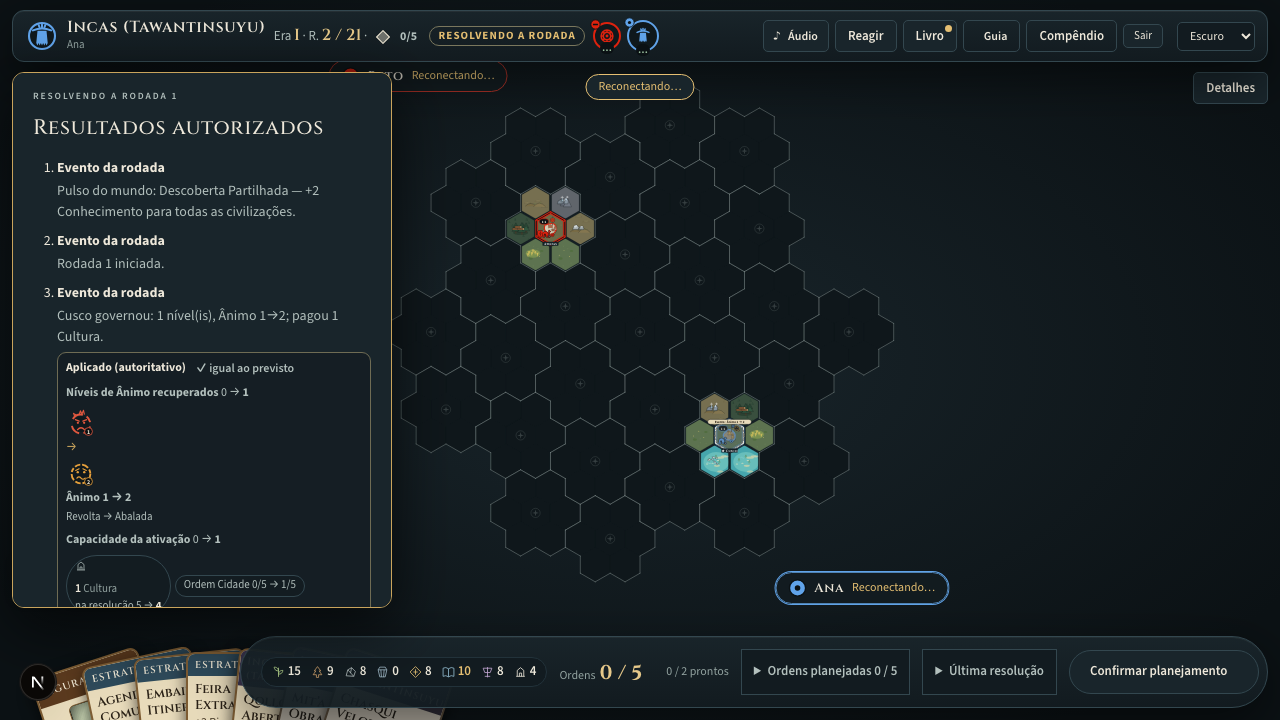
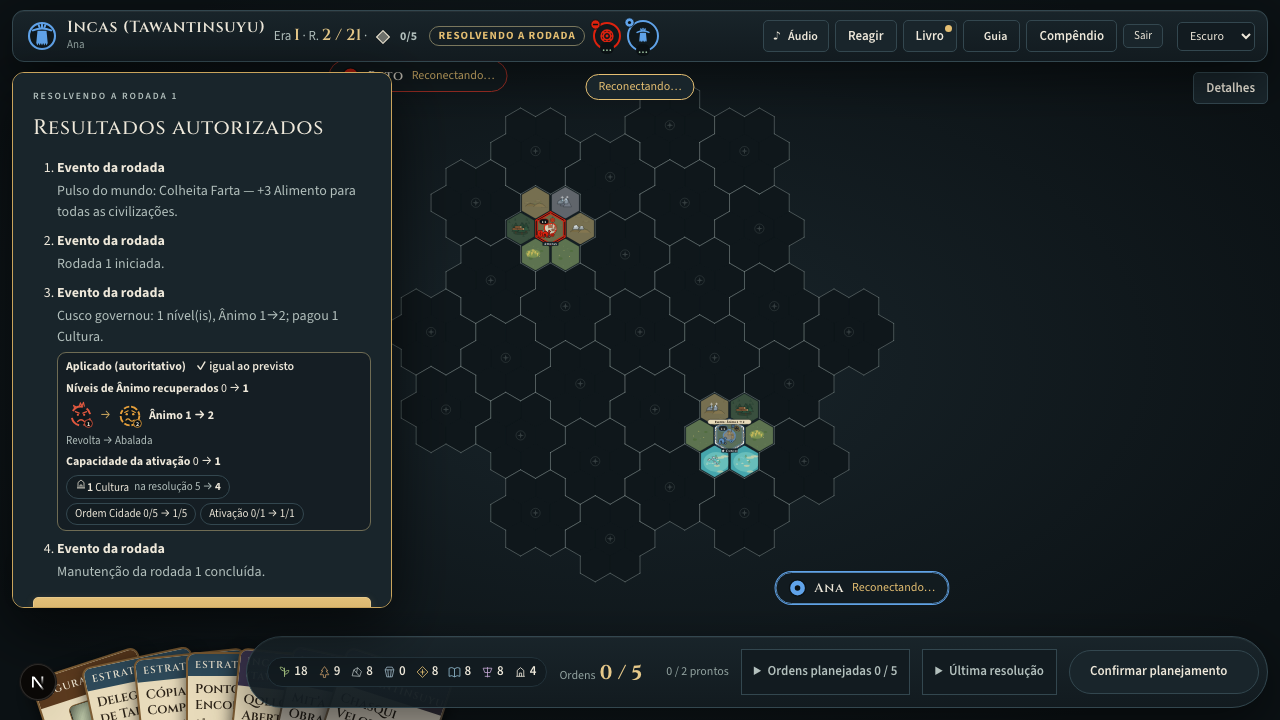
fix(web): Resultado of the Ficha keeps its own layout inside the resolution panel

Changed region(s): [[0.0312, 0.4889, 0.3125, 0.8556], [0.0625, 0.8861, 0.375, 1.0], [0.0312, 0.2444, 0.2812, 0.3056]]

diff --git a/apps/web/app/alpha/action-ficha.css b/apps/web/app/alpha/action-ficha.css
@@ -100,3 +100,11 @@
   .afi-stepper button { min-width: 44px; min-height: 44px; }
   .ctx-plate.is-sheet { width: min(420px, calc(100% - 20px)) !important; box-sizing: border-box; }
 }
+
+/* Inside "Resolvendo a rodada" the generic `li span { display: block }` would stack the Resultado's seals and chips: restore the Ficha's own layout there. */
+.alpha-resolution-phase .afi-applied-block span { display: inline; margin-top: 0; color: inherit; }
+.alpha-resolution-phase .afi-applied-block .afi-chip,
+.alpha-resolution-phase .afi-applied-block .afi-mood-change,
+.alpha-resolution-phase .afi-applied-block .afi-seal { display: inline-flex; }
+.alpha-resolution-phase .afi-applied-block .afi-effects li { display: flex; flex-wrap: wrap; align-items: center; gap: 2px 8px; }
+.alpha-resolution-phase .afi-applied-block .afi-mute, .alpha-resolution-phase .afi-applied-block .afi-note, .alpha-resolution-phase .afi-applied-block .afi-tag { color: var(--text-secondary); }
